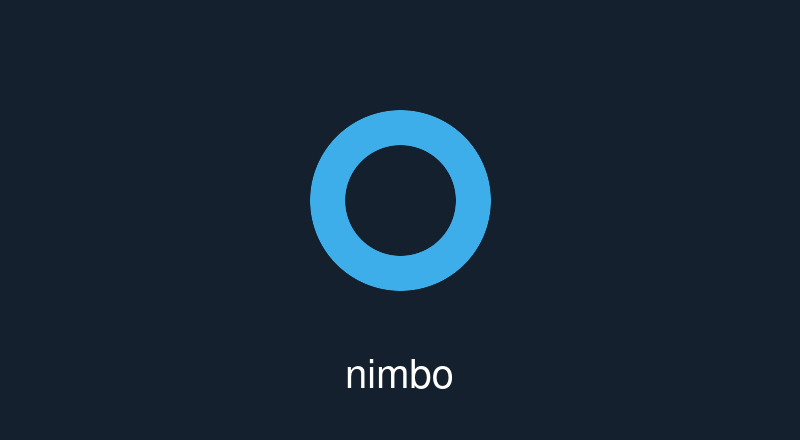
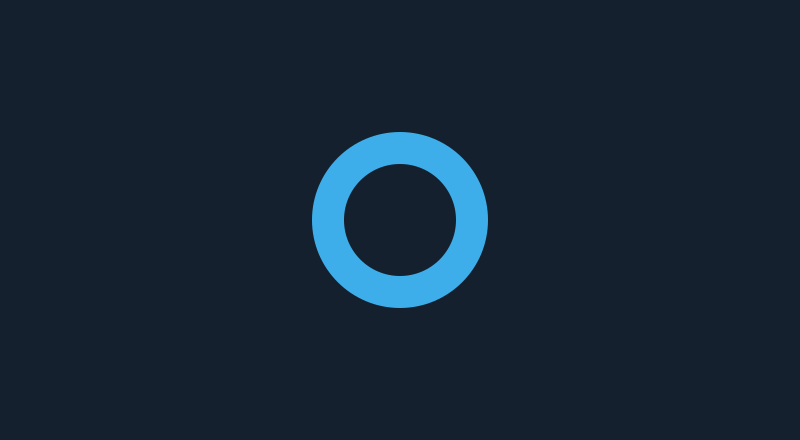
feat(iso): branding de Calamares desde SVG propio, sin texto + CREDITOS.md
Los PNG de 3C.1 no tenían fuente, metadatos ni procedencia registrada y
llevaban texto con una tipografía sin identificar: bloqueante para una
release firmada. Se sustituyen por PNG generados desde SVG escritos en el
repo (iso/branding/): solo geometría (anillo #3daee9 sobre #14202e), sin
texto ni tipografías — el nombre lo pinta Calamares desde productName.

- iso/branding/generar-branding.sh: rsvg-convert de bookworm en el
  contenedor anclado (guarda de digest + snapshot.env); renderiza dos veces
  y exige bytes idénticos. Dos ejecuciones separadas: mismos SHA-256
  (nimbo.png 13b29618…, nimbo-bienvenida.png 6c290455…).
- CREDITOS.md junto al LICENSE: quién, cuándo, fuente y licencia.

Cambia el contenido de la ISO (dos PNG): su SHA cambia; repro-verify debe
seguir en MATCH entre patas.

diff --git a/CREDITOS.md b/CREDITOS.md
@@ -1,0 +1,22 @@
+# Créditos y procedencia de los recursos gráficos
+
+Todo el código propio del repositorio está bajo **GPL-3.0-or-later** ([`LICENSE`](LICENSE)).
+Este archivo registra **quién hizo y cuándo** cada recurso no textual que viaja en la ISO,
+para que su procedencia sea comprobable antes de una release firmada.
+
+## Branding del instalador (Calamares)
+
+| Recurso en la ISO | Fuente en el repo | Autoría | Fecha | Licencia |
+|---|---|---|---|---|
+| `etc/calamares/branding/nimbo/nimbo.png` (256×256) | [`iso/branding/nimbo.svg`](iso/branding/nimbo.svg) | Equipo LockNet: SVG escrito en el repo por Claude Code bajo la dirección de Juan José Duque | 2026-10-23 | GPL-3.0-or-later |
+| `etc/calamares/branding/nimbo/nimbo-bienvenida.png` (800×440) | [`iso/branding/nimbo-bienvenida.svg`](iso/branding/nimbo-bienvenida.svg) | Ídem | 2026-10-23 | GPL-3.0-or-later |
+
+- **Solo geometría** (un anillo `#3daee9` sobre fondo `#14202e`): **sin texto ni tipografías**,
+  así que no hay ninguna fuente tipográfica de terceros implicada. El nombre del producto lo
+  pinta Calamares a partir de `productName` (`branding.desc`).
+- Los PNG se **generan** desde los SVG con [`iso/branding/generar-branding.sh`](iso/branding/generar-branding.sh)
+  (`rsvg-convert` de bookworm, en el contenedor anclado del proyecto), de forma determinista.
+  Para cambiar el branding se edita el SVG y se regeneran los PNG; nunca se sustituyen a mano.
+- **Por qué existe este registro:** los PNG anteriores (Paso 3C.1, commit `2eb22cd`) no tenían
+  fuente, metadatos ni registro de procedencia, y llevaban texto con una tipografía sin
+  identificar. Se sustituyeron el 2026-10-23 por estos, con fuente versionada.

diff --git a/README.md b/README.md
@@ -25,6 +25,7 @@ ejecuta las gestiones del mundo físico y **verifica con los ojos** antes de mer
 El código propio de este repositorio se distribuye bajo **GPL-3.0-or-later**: texto
 completo en [`LICENSE`](LICENSE). La ISO agrega además paquetes de Debian, cada uno con
 su propia licencia (ver `/usr/share/doc/*/copyright` dentro del sistema).
+Procedencia de los recursos gráficos (branding del instalador): [`CREDITOS.md`](CREDITOS.md).
 
 ## Referencias
 
